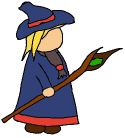
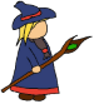
changes in main_T smaller sprites + spider animation

diff --git a/main_T.py b/main_T.py
@@ -4,6 +4,10 @@ import ctypes
 import random
 
 
+x1 = 0
+y1 = 0
+
+
 user32 = ctypes.windll.user32
 SCREEN_WIDTH = user32.GetSystemMetrics(0)
 SCREEN_HEIGHT = user32.GetSystemMetrics(1)
@@ -45,6 +49,7 @@ class GameView(arcade.View):
         self.stage = 1
         self.loading_screen_on = 0
         self.onetime_door = True
+        self.spider_spawn_timer = 5
 
 
         self.background = arcade.load_texture(file_name="images/background.png")
@@ -60,10 +65,11 @@ class GameView(arcade.View):
         self.health_list = arcade.SpriteList()
         self.slime_list = arcade.SpriteList()
         self.door_list = arcade.SpriteList()
+        self.spider_list = arcade.SpriteList()
 
 #player
         self.player = arcade.AnimatedWalkingSprite()
-        self.character_scale = 1
+        self.character_scale = 0.1
 
         self.player.stand_right_textures = []
         self.player.stand_right_textures.append(arcade.load_texture("images/Mage_1.png",scale=self.character_scale))
@@ -115,7 +121,7 @@ class GameView(arcade.View):
         self.crosshair = arcade.Sprite("images/crosshair.png")
         self.crosshair.center_x = SCREEN_WIDTH//2
         self.crosshair.center_y = SCREEN_HEIGHT//2
-        self.crosshair.scale = 0.75
+        self.crosshair.scale = 0.5
         self.crosshair_list.append(self.crosshair)
 
 
@@ -129,6 +135,7 @@ class GameView(arcade.View):
         arcade.draw_text("x " + str(self.player_life), color=arcade.color.WHITE, start_x = 120, start_y= SCREEN_HEIGHT - 75, font_size= 45)
         #arcade.draw_text(str(self.animation_clock_2), color = arcade.color.WHITE, start_x = 120, start_y = SCREEN_HEIGHT - 150)
         self.slime_list.draw()
+        self.spider_list.draw()
         self.player_list.draw()
         self.crosshair_list.draw()
         self.fireball_list.draw()
@@ -143,13 +150,13 @@ class GameView(arcade.View):
     def on_key_press(self, symbol, modifiers:int):
         if self.shoot_cd == False:
             if symbol == arcade.key.W:
-                self.player.change_y = 5
+                self.player.change_y = 4
             if symbol == arcade.key.S:
-                self.player.change_y = -5
+                self.player.change_y = -4
             if symbol == arcade.key.D:
-                self.player.change_x = 5
+                self.player.change_x = 4
             if symbol == arcade.key.A:
-                self.player.change_x = -5
+                self.player.change_x = -4
         if symbol == arcade.key.ESCAPE:
             # pass self, the current view, to preserve this view's state
             pause = PauseView(self)
@@ -176,32 +183,32 @@ class GameView(arcade.View):
         if self.fireball_timer < 0.1:
             self.shoot_cd = True
 
-    def animation(self, sprite, name, frames: 2, scale: 1):
+    def animation(self, sprite, name, frames: 2, scale: 1,mirrored = False):
         if frames == 2:
             if self.animation_clock_2 == 1:
                 sprite.textures.clear()
-                sprite.textures.append(arcade.load_texture("images/"+name+"_"+str(frames-1)+".png",scale= scale))
+                sprite.textures.append(arcade.load_texture("images/"+name+"_"+str(frames-1)+".png",scale= scale,mirrored=mirrored))
                 sprite.set_texture(0)
                 sprite.textures.clear()
             if self.animation_clock_2 == 2:
                 sprite.textures.clear()
-                sprite.textures.append(arcade.load_texture("images/"+name+"_"+str(frames)+".png",scale= scale))
+                sprite.textures.append(arcade.load_texture("images/"+name+"_"+str(frames)+".png",scale= scale,mirrored=mirrored))
                 sprite.set_texture(0)
                 sprite.textures.clear()
         if frames == 3:
             if self.animation_clock_3 == 1:
                 sprite.textures.clear()
-                sprite.textures.append(arcade.load_texture("images/"+name+"_"+str(frames-2)+".png",scale= scale))
+                sprite.textures.append(arcade.load_texture("images/"+name+"_"+str(frames-2)+".png",scale= scale,mirrored=mirrored))
                 sprite.set_texture(0)
                 sprite.textures.clear()
             if self.animation_clock_3 == 2:
                 sprite.textures.clear()
-                sprite.textures.append(arcade.load_texture("images/"+name+"_"+str(frames-1)+".png",scale= scale))
+                sprite.textures.append(arcade.load_texture("images/"+name+"_"+str(frames-1)+".png",scale= scale,mirrored=mirrored))
                 sprite.set_texture(0)
                 sprite.textures.clear()
             if self.animation_clock_3 == 3:
                 sprite.textures.clear()
-                sprite.textures.append(arcade.load_texture("images/"+name+"_"+str(frames)+".png",scale= scale))
+                sprite.textures.append(arcade.load_texture("images/"+name+"_"+str(frames)+".png",scale= scale,mirrored=mirrored))
                 sprite.set_texture(0)
                 sprite.textures.clear()
 
@@ -212,6 +219,7 @@ class GameView(arcade.View):
             self.health_list.append(health)
             self.onetime_health = False
 
+
     def door(self):
         door = arcade.Sprite(filename="images/light.png")
         door.center_x = SCREEN_WIDTH-100
@@ -220,7 +228,7 @@ class GameView(arcade.View):
 
 
     def slime_enemy(self):
-        slime = arcade.Sprite(filename="images/slime_1.png")
+        slime = arcade.Sprite(filename="images/slime_1.png", scale= 0.6)
 
         slime.center_y = random.randrange(200, SCREEN_HEIGHT-200)
         slime.center_x = random.randrange(200, SCREEN_WIDTH-100)
@@ -233,7 +241,6 @@ class GameView(arcade.View):
             else:
                 slime_coords_spawn_x = True
 
-
         while slime_coords_spawn_y == False:
             if slime.center_y < self.player.center_y + 100 and slime.center_y > self.player.center_y - 100:
                 slime.center_y = random.randrange(200, SCREEN_HEIGHT)
@@ -243,9 +250,58 @@ class GameView(arcade.View):
         self.slime_list.append(slime)
 
 
+    def spider_enemy(self):
+
+        spider = arcade.Sprite(filename="images/spider_1.png",scale=0.1) #filename
+
+        spider.center_y = random.randrange(200, SCREEN_HEIGHT-200)
+        spider.center_x = random.randrange(200, SCREEN_WIDTH-100)
+        spider_coords_spawn_x = False
+        spider_coords_spawn_y = False
+
+        while spider_coords_spawn_x == False:
+            if spider.center_x < self.player.center_x + 100 and spider.center_x > self.player.center_x - 100:
+                spider.center_x = random.randrange(200, SCREEN_WIDTH)
+            else:
+                spider_coords_spawn_x = True
+
+        while spider_coords_spawn_y == False:
+            if spider.center_y < self.player.center_y + 100 and spider.center_y > self.player.center_y - 100:
+                spider.center_y = random.randrange(200, SCREEN_HEIGHT)
+            else:
+                spider_coords_spawn_y = True
+
+        self.spider_list.append(spider)
+
+
+    def trajectory(self,x,y,a,b):
+
+        diff_a = a-x
+        diff_b = b-y
+
+        v = math.atan2(diff_a, diff_b)
+        return v
+
+
+    def evasion_movement(self,x,y,w,a,b):
+        v = self.trajectory(x,y,a,b)
+        global x1
+        global y1
+        for spider in self.spider_list:
+            if  w < v + 12.5 and w > v - 12.5:
+                if w < v:
+                    x1 = 1
+                    y1 = 1
+                else:
+                    x1 = (-1)
+                    y1 = (-1)
+            else:
+                x1 = 0
+                y1 = 0
+
 
     def fireball(self):
-        fireball = arcade.Sprite(filename= "images/fireball_1.png",scale=0.15)
+        fireball = arcade.Sprite(filename= "images/fireball_1.png",scale=0.12)
 
         start_x = self.player.center_x
         start_y = self.player.center_y + 50
@@ -261,13 +317,16 @@ class GameView(arcade.View):
 
         fireball.angle = math.degrees(angle)
 
-        fireball.change_x = math.cos(angle) * 5
-        fireball.change_y = math.sin(angle) * 5
+        fireball.change_x = math.cos(angle) * 7
+        fireball.change_y = math.sin(angle) * 7
 
         self.fireball_list.append(fireball)
 
         self.fireball_timer = 1
         self.fireball_cast_timer = 0
+
+        for spider in self.spider_list:
+            self.evasion_movement(start_x,start_y,angle,spider.center_x,spider.center_y)
 
 
     def update(self, delta_time):
@@ -276,6 +335,7 @@ class GameView(arcade.View):
         self.health_list.update()
         self.player_health()
         self.slime_list.update()
+        self.spider_list.update()
         self.door_list.update()
 
         self.fireball_list.update()
@@ -285,6 +345,7 @@ class GameView(arcade.View):
         self.player_list.update_animation()
 
         self.slime_spawn_timer += delta_time
+        self.spider_spawn_timer += delta_time
 
         if self.fireball_timer > 0:
             self.fireball_timer -= delta_time
@@ -345,11 +406,16 @@ class GameView(arcade.View):
             self.fireball_cast_timer = 0
             self.shoot_cd = False
 
-#animations
+#animations function call
         for slime in self.slime_list:
-            self.animation(slime, "slime",2, 1)
+            self.animation(slime, "slime",2, 0.6)
         for fireball in self.fireball_list:
-            self.animation(fireball, "fireball", 3, 0.15)
+            self.animation(fireball, "fireball", 3, 0.12)
+        for spider in self.spider_list:
+            if spider.center_x > self.player.center_x:
+                self.animation(spider, "spider", 3, 0.1, True)
+            else:
+                self.animation(spider, "spider", 3, 0.1, False)
 
 
 #slime_movement + spawn
@@ -366,6 +432,23 @@ class GameView(arcade.View):
                 slime.change_y = 1
             else:
                 slime.change_y = -1
+
+
+#spider movement & spawn
+
+        if self.spider_spawn_timer > 8:
+            self.spider_enemy()
+            self.spider_spawn_timer = 0
+
+        for spider in self.spider_list:
+            if self.player.center_x > spider.center_x:
+                spider.change_x = (2 + x1)
+            else:
+                spider.change_x = (-2 + x1)
+            if self.player.center_y > spider.center_y:
+                spider.change_y = (2 + y1)
+            else:
+                spider.change_y = (-2 + y1)
 
 
 #door
@@ -410,6 +493,23 @@ class GameView(arcade.View):
         for slime in self.slime_list:
             if slime.bottom > SCREEN_HEIGHT - 150 or slime.top < 150 or slime.right < 150 or slime.left > SCREEN_WIDTH - 150:
                 slime.kill()
+
+
+#spider hitbox
+        spider_hit_with_player = arcade.check_for_collision_with_list(self.player, self.spider_list)
+        for spider in spider_hit_with_player:
+            self.player_life -= 1
+            spider.kill()
+
+        for spider in self.spider_list:
+            spider_hit_with_projectile = arcade.check_for_collision_with_list(spider, self.fireball_list)
+            for spider_hit in spider_hit_with_projectile:
+                spider.kill()
+
+        for spider in self.spider_list:
+            if spider.bottom > SCREEN_HEIGHT - 150 or spider.top < 150 or spider.right < 150 or spider.left > SCREEN_WIDTH - 150:
+                spider.kill()
+
 
 #wall_hitbox
         wall_down_hit_list = arcade.check_for_collision_with_list(self.player, self.wall_down_list)
